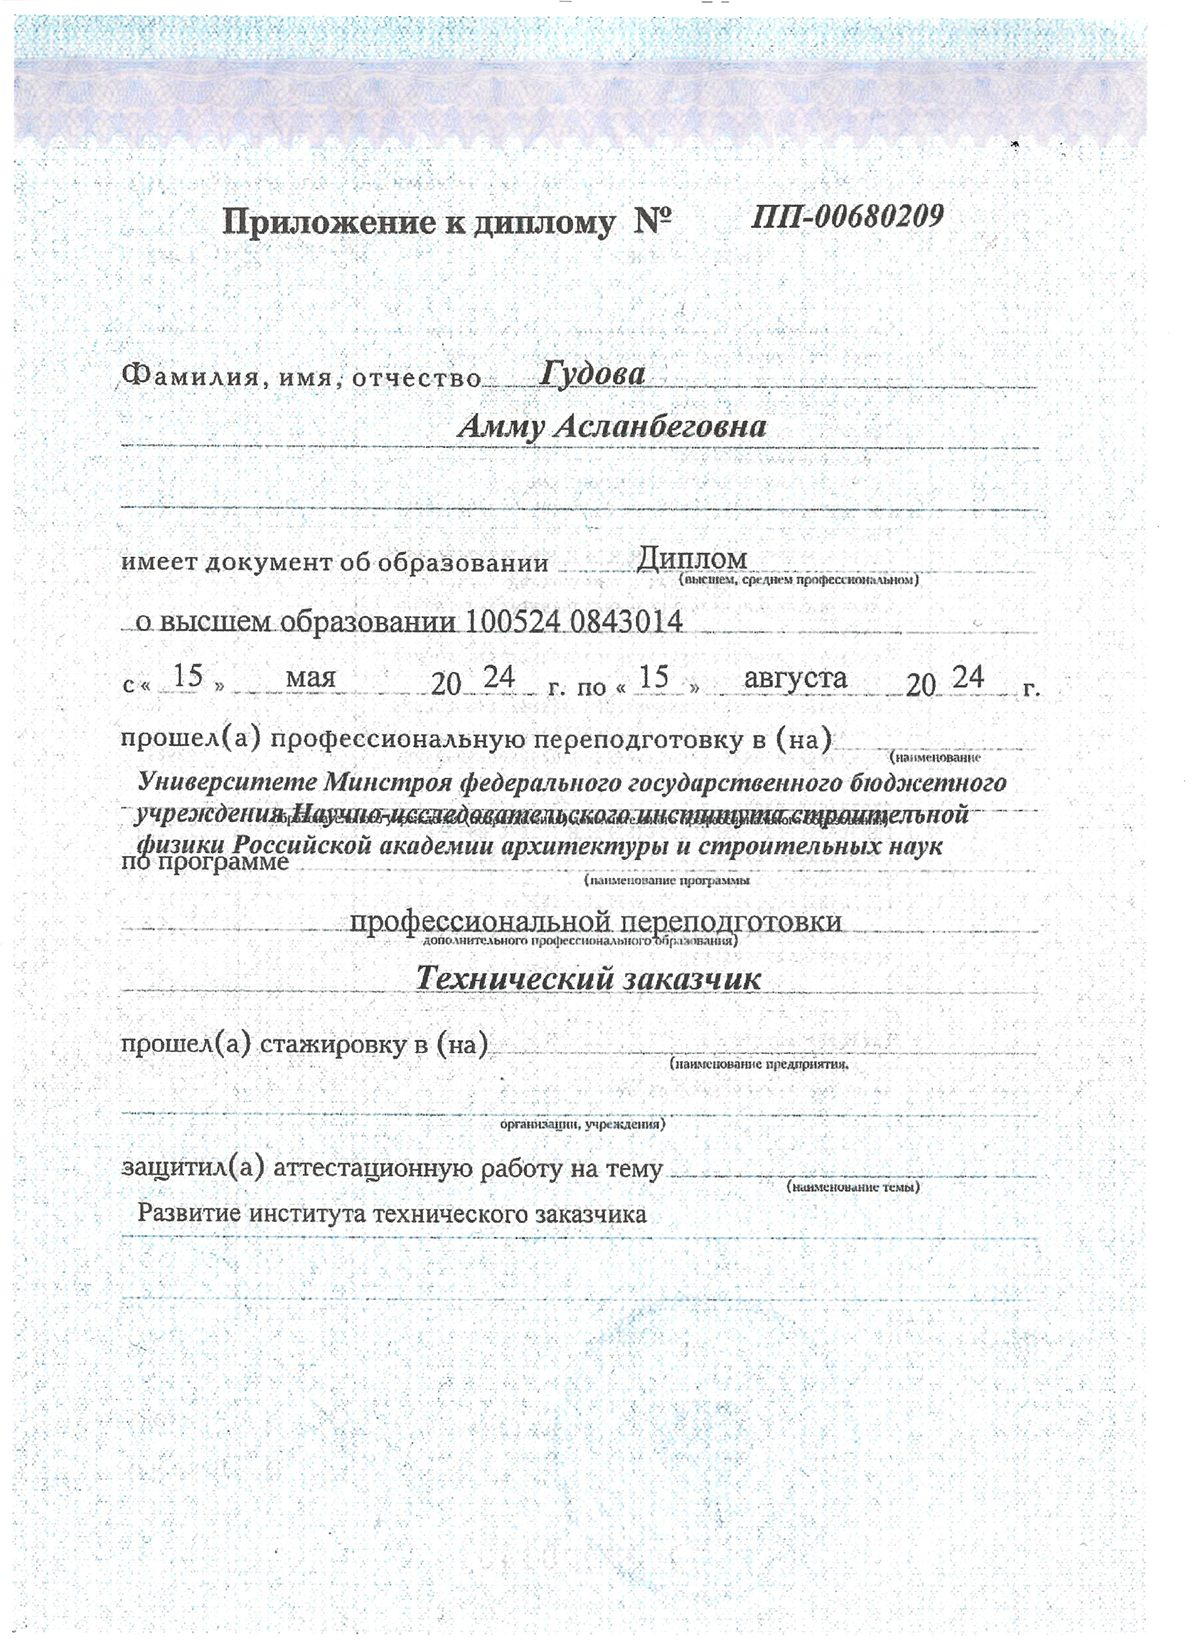
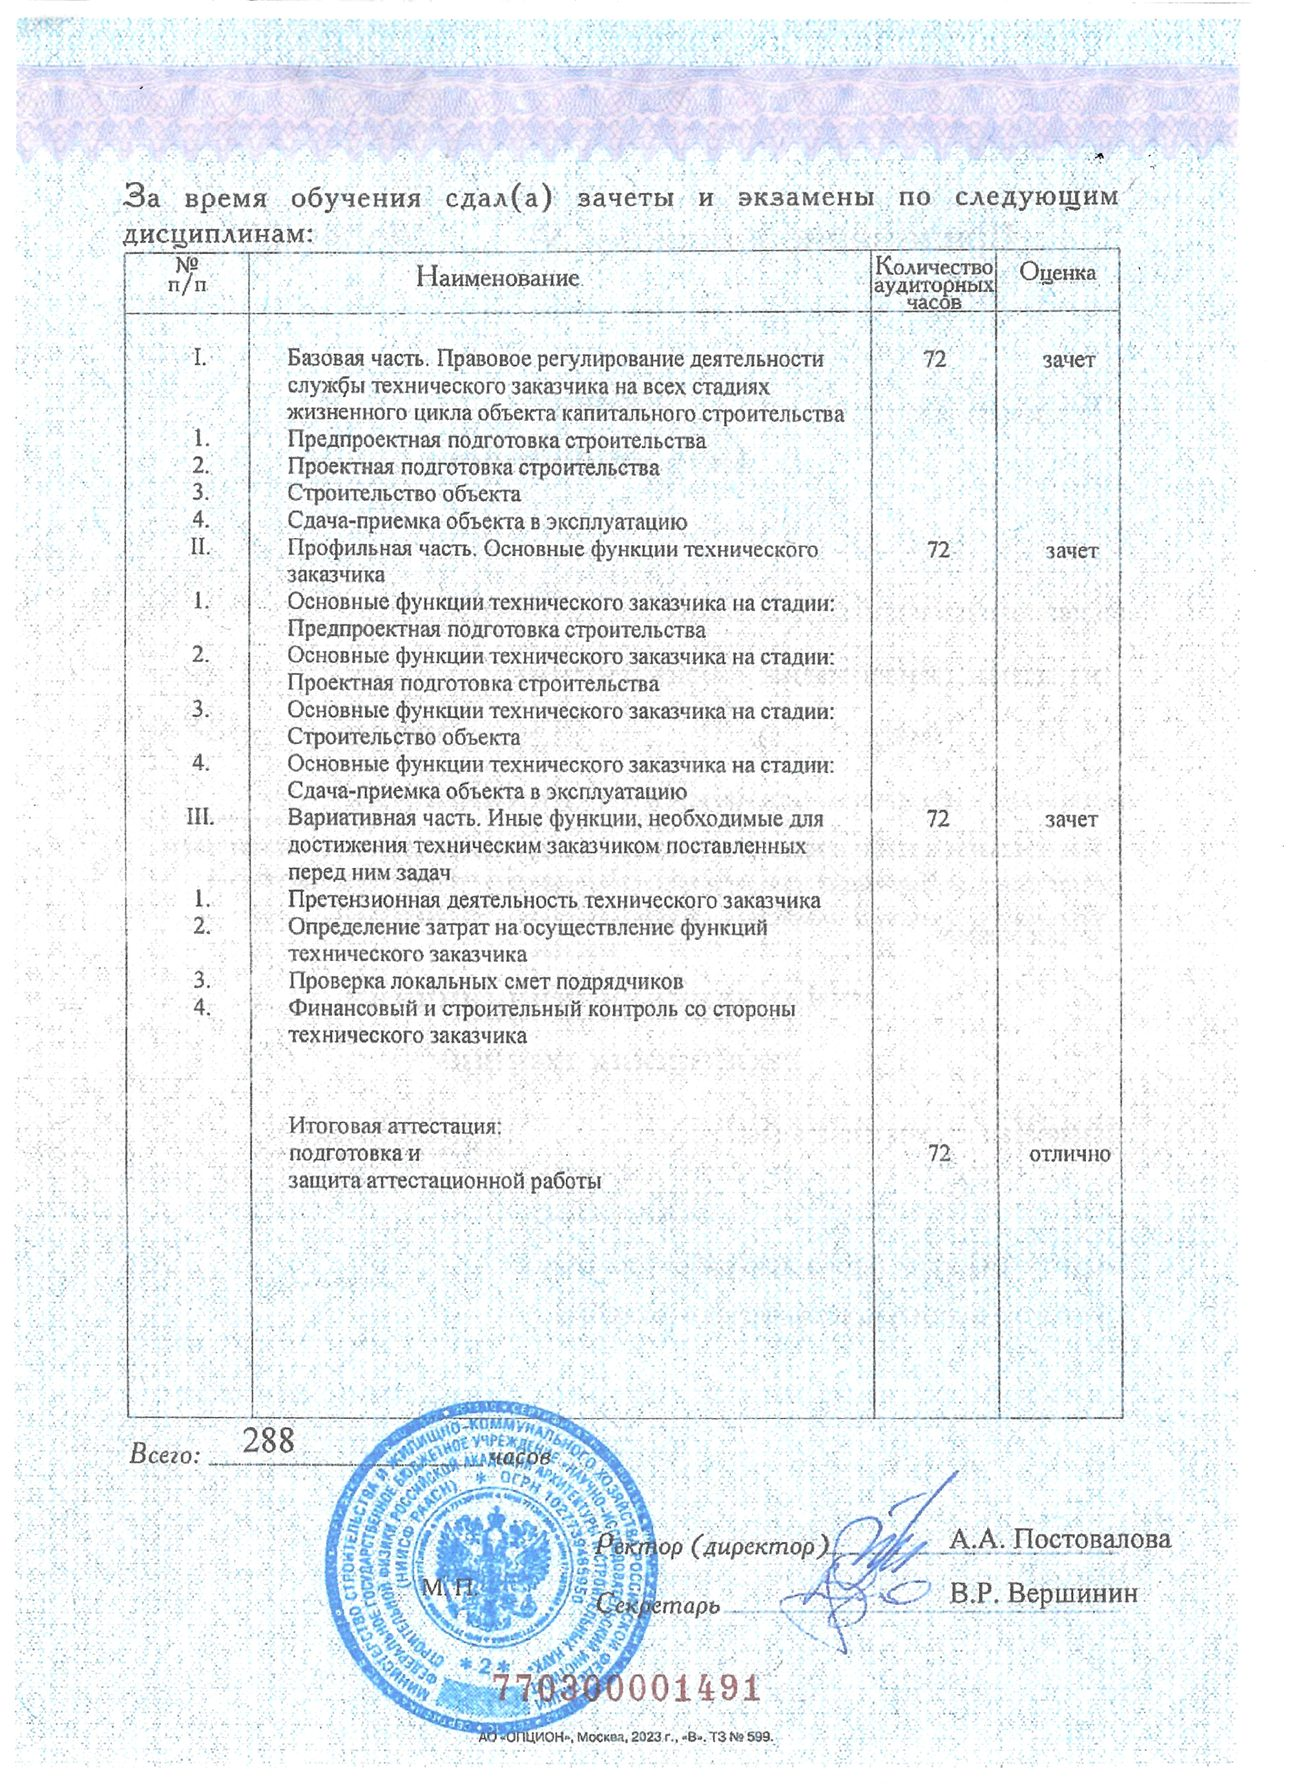
Merge diploma + appendix into one certificate card
Previously showed two near-duplicate scans (diploma page, and the
appendix's repeated header page). Now a single visible card shows the
diploma; the appendix's actual distinct content (subject/hours/grade
table) replaces the old duplicate scan and is reachable via the
lightbox's next arrow, same certs group.

diff --git a/index-v2.html b/index-v2.html
@@ -557,16 +557,12 @@
         <span class="ci-body"><span class="ci-num">03</span><b>Союз инженеров-сметчиков</b><span>Свидетельство участника</span></span>
         <span class="ci-view">Открыть целиком →</span>
       </button>
-      <button class="cert-item" data-lightbox="assets/images/cert-diplom-tz.jpg" data-lightbox-group="certs" data-caption="Диплом о профессиональной переподготовке «Технический заказчик», НИИСФ РААСН, 2024" aria-label="Открыть скан целиком: диплом о профессиональной переподготовке «Технический заказчик»">
+      <button class="cert-item" data-lightbox="assets/images/cert-diplom-tz.jpg" data-lightbox-group="certs" data-caption="Диплом о профессиональной переподготовке «Технический заказчик», НИИСФ РААСН, 2024" aria-label="Открыть скан целиком: диплом о профессиональной переподготовке «Технический заказчик», со стрелкой «далее» — приложение с перечнем дисциплин">
         <span class="ci-shot"><img src="assets/images/cert-diplom-tz.jpg" width="1600" height="1162" alt="Диплом о профессиональной переподготовке «Технический заказчик»" loading="lazy"></span>
-        <span class="ci-body"><span class="ci-num">04</span><b>Диплом «Технический заказчик»</b><span>Профессиональная переподготовка, 288 часов, НИИСФ РААСН, 2024</span></span>
+        <span class="ci-body"><span class="ci-num">04</span><b>Диплом «Технический заказчик»</b><span>Профессиональная переподготовка, 288 часов, НИИСФ РААСН, 2024 — с приложением (перечень дисциплин, итоговая оценка «отлично»)</span></span>
         <span class="ci-view">Открыть целиком →</span>
       </button>
-      <button class="cert-item" data-lightbox="assets/images/cert-diplom-tz-prilozhenie.jpg" data-lightbox-group="certs" data-caption="Приложение к диплому «Технический заказчик» — программа переподготовки" aria-label="Открыть скан целиком: приложение к диплому «Технический заказчик»">
-        <span class="ci-shot"><img src="assets/images/cert-diplom-tz-prilozhenie.jpg" width="1200" height="1651" alt="Приложение к диплому «Технический заказчик»" loading="lazy"></span>
-        <span class="ci-body"><span class="ci-num">05</span><b>Приложение к диплому</b><span>Программа профессиональной переподготовки «Технический заказчик»</span></span>
-        <span class="ci-view">Открыть целиком →</span>
-      </button>
+      <button class="cert-item" data-lightbox="assets/images/cert-diplom-tz-prilozhenie.jpg" data-lightbox-group="certs" data-caption="Приложение к диплому «Технический заказчик» — перечень дисциплин и итоговая оценка" aria-label="Открыть скан целиком: приложение к диплому «Технический заказчик»" hidden></button>
     </div>
   </div>
 </section>

diff --git a/index.html b/index.html
@@ -534,16 +534,12 @@
         <span class="ci-body"><span class="ci-num">03</span><b>Союз инженеров-сметчиков</b><span>Свидетельство участника</span></span>
         <span class="ci-view">Открыть целиком →</span>
       </button>
-      <button class="cert-item" data-lightbox="assets/images/cert-diplom-tz.jpg" data-lightbox-group="certs" data-caption="Диплом о профессиональной переподготовке «Технический заказчик», НИИСФ РААСН, 2024" aria-label="Открыть скан целиком: диплом о профессиональной переподготовке «Технический заказчик»">
+      <button class="cert-item" data-lightbox="assets/images/cert-diplom-tz.jpg" data-lightbox-group="certs" data-caption="Диплом о профессиональной переподготовке «Технический заказчик», НИИСФ РААСН, 2024" aria-label="Открыть скан целиком: диплом о профессиональной переподготовке «Технический заказчик», со стрелкой «далее» — приложение с перечнем дисциплин">
         <span class="ci-shot"><img src="assets/images/cert-diplom-tz.jpg" width="1600" height="1162" alt="Диплом о профессиональной переподготовке «Технический заказчик»" loading="lazy"></span>
-        <span class="ci-body"><span class="ci-num">04</span><b>Диплом «Технический заказчик»</b><span>Профессиональная переподготовка, 288 часов, НИИСФ РААСН, 2024</span></span>
+        <span class="ci-body"><span class="ci-num">04</span><b>Диплом «Технический заказчик»</b><span>Профессиональная переподготовка, 288 часов, НИИСФ РААСН, 2024 — с приложением (перечень дисциплин, итоговая оценка «отлично»)</span></span>
         <span class="ci-view">Открыть целиком →</span>
       </button>
-      <button class="cert-item" data-lightbox="assets/images/cert-diplom-tz-prilozhenie.jpg" data-lightbox-group="certs" data-caption="Приложение к диплому «Технический заказчик» — программа переподготовки" aria-label="Открыть скан целиком: приложение к диплому «Технический заказчик»">
-        <span class="ci-shot"><img src="assets/images/cert-diplom-tz-prilozhenie.jpg" width="1200" height="1651" alt="Приложение к диплому «Технический заказчик»" loading="lazy"></span>
-        <span class="ci-body"><span class="ci-num">05</span><b>Приложение к диплому</b><span>Программа профессиональной переподготовки «Технический заказчик»</span></span>
-        <span class="ci-view">Открыть целиком →</span>
-      </button>
+      <button class="cert-item" data-lightbox="assets/images/cert-diplom-tz-prilozhenie.jpg" data-lightbox-group="certs" data-caption="Приложение к диплому «Технический заказчик» — перечень дисциплин и итоговая оценка" aria-label="Открыть скан целиком: приложение к диплому «Технический заказчик»" hidden></button>
     </div>
   </div>
 </section>
